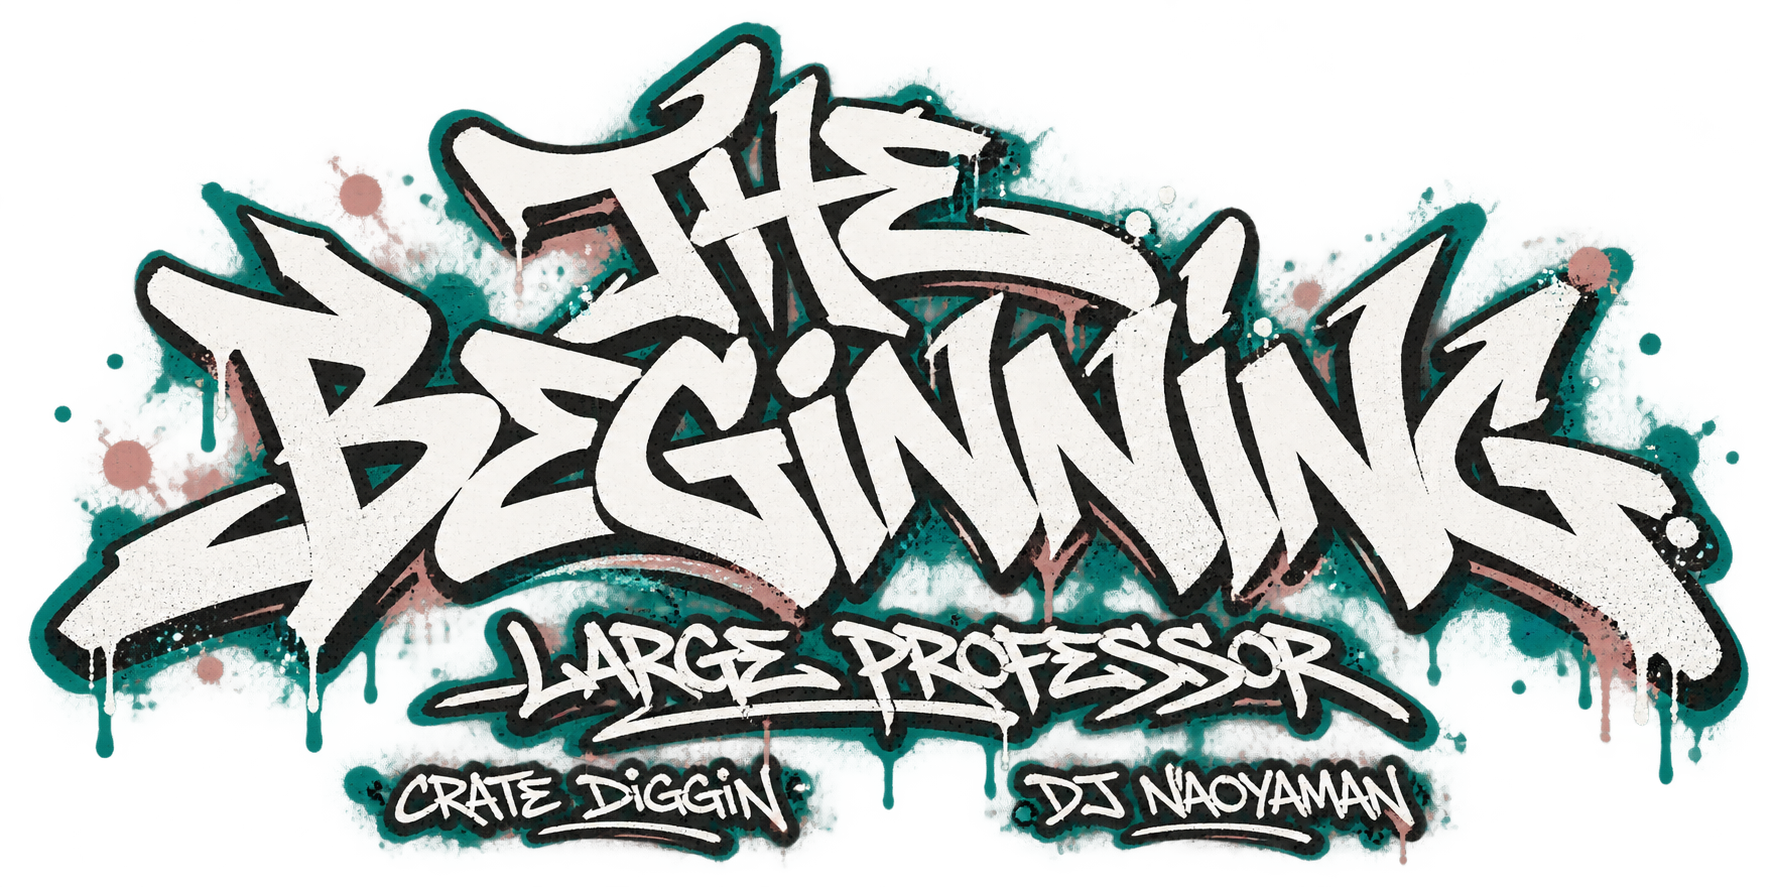
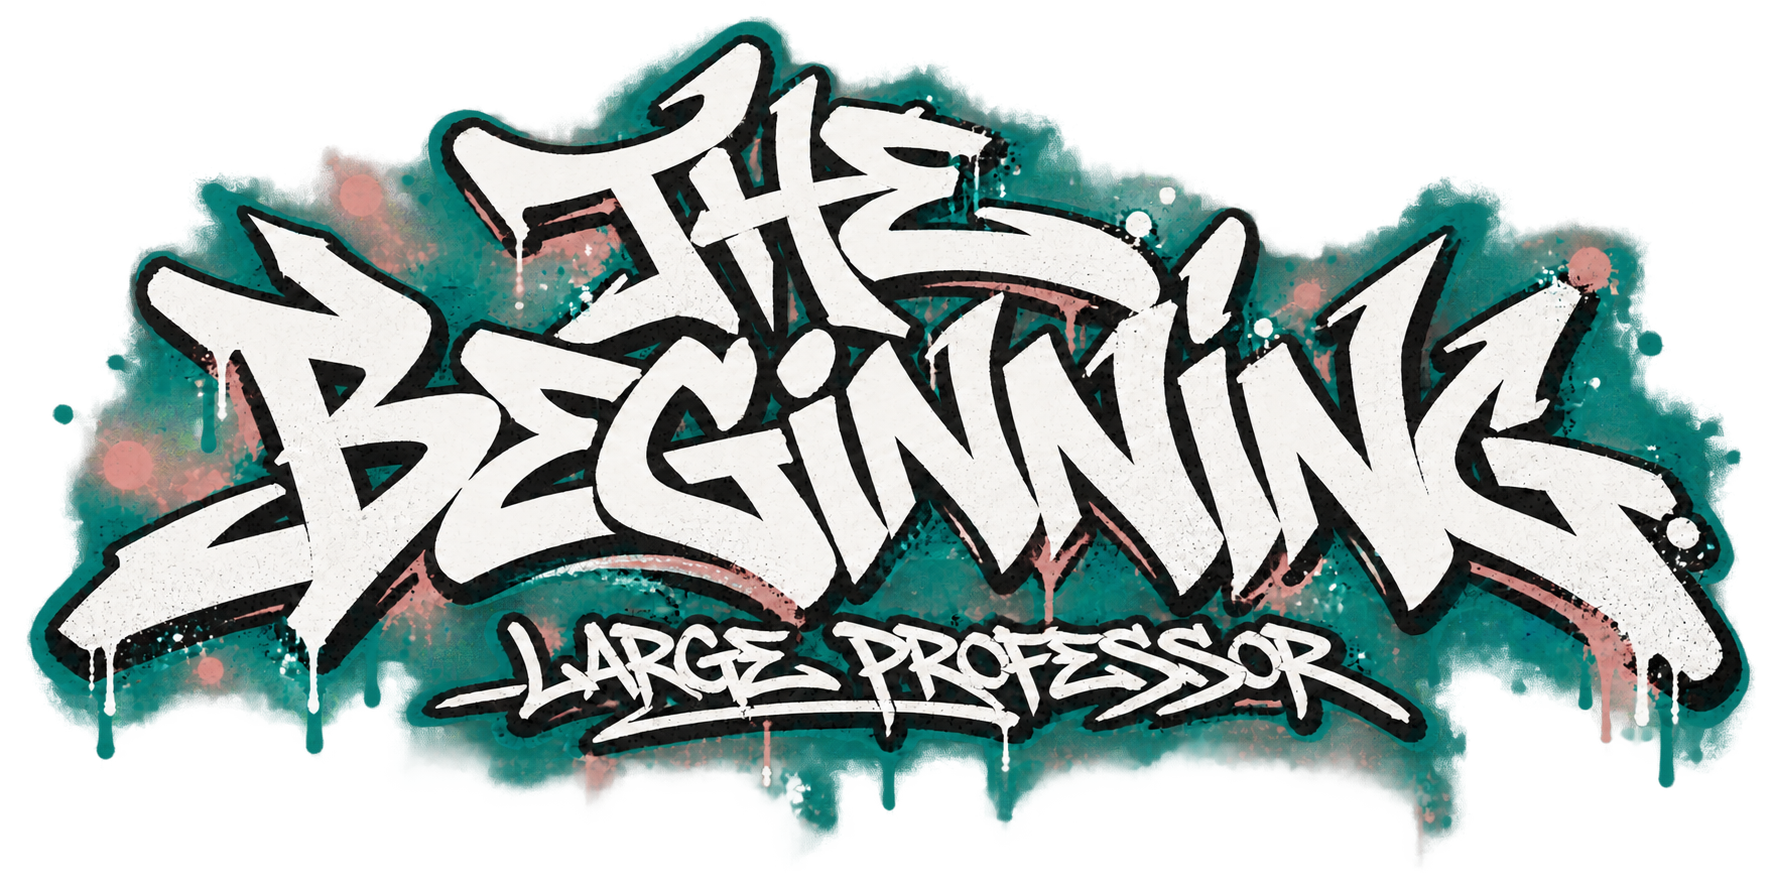
Remove embedded site signature from Large Professor The Beginning artwork

diff --git a/scripts/verify_large_professor_art_cleanup.py b/scripts/verify_large_professor_art_cleanup.py
@@ -1,0 +1,22 @@
+from pathlib import Path
+import hashlib,json,sys
+from PIL import Image
+from approved_large_professor_art_cleanup import F,historical_large_professor_art_cleanup_file
+R=Path(__file__).resolve().parents[1];sha=lambda b:hashlib.sha256(b).hexdigest()
+for p,h in F['protected'].items():assert sha((R/p).read_bytes())==h,p
+p=R/F['asset'];assert sha(p.read_bytes())==F['afterAssetSHA256'];assert F['beforeAssetSHA256']!=F['afterAssetSHA256']
+with Image.open(p) as im:
+ im.load();assert im.mode=='RGBA' and list(im.size)==F['dimensions'] and max(im.size)<=2400
+ assert sha(im.tobytes())==F['rgbaSHA256'];assert im.getchannel('A').getextrema()[0]==0
+ assert sum(1 for r,g,b,a in im.getdata() if min(r,g,b)>225 and a>240)>1000,'White paint lost'
+raw=(R/'releases.json').read_bytes();historical_large_professor_art_cleanup_file('releases.json',raw)
+try:historical_large_professor_art_cleanup_file('releases.json',raw+b' ')
+except AssertionError:pass
+else:raise AssertionError('Unapproved drift accepted')
+assert historical_large_professor_art_cleanup_file('unrelated',b'unchanged')==b'unchanged'
+notes=(R/'ARTWORK_NOTES.md').read_text();assert 'プロンプトに明示' in notes and 'ビットマップには' in notes
+if '--source-only' not in sys.argv:
+ D=R/'dist';html=(D/'tracks'/(F['id']+'.html')).read_text();assert F['asset'] in html and 'DJ Naoyaman' in html and 'Original graffiti' in html
+ with Image.open(D/F['asset']) as im:im.load();assert im.mode=='RGBA' and im.getchannel('A').getextrema()[0]==0
+ with Image.open(D/'og'/(F['id']+'.jpg')) as im:im.load();assert im.size==(1200,630)
+print('Large Professor image-only replacement, white paint/transparency, unchanged507 records and external credit PASS; lettering/removal visually reviewed')

diff --git a/scripts/approved_large_professor_art_cleanup.py b/scripts/approved_large_professor_art_cleanup.py
@@ -1,0 +1,10 @@
+"""Only the release version is normalized; approved image is checked separately."""
+from pathlib import Path
+import json,hashlib
+R=Path(__file__).resolve().parents[1]
+F=json.loads((R/'scripts/fixtures/approved-large-professor-art-cleanup.json').read_text())
+def historical_large_professor_art_cleanup_file(path,data):
+ if path!='releases.json':return data
+ assert hashlib.sha256(data).hexdigest()==F['afterReleaseSHA256'],'Unapproved artwork-release drift'
+ obj=json.loads(data);obj['version']=F['beforeVersion'];before=(json.dumps(obj,ensure_ascii=False,indent=2)+'\n').encode()
+ assert hashlib.sha256(before).hexdigest()==F['beforeReleaseSHA256'];return before

diff --git a/scripts/approved_masta_ace_art_cleanup.py b/scripts/approved_masta_ace_art_cleanup.py
@@ -4,6 +4,8 @@ import json,hashlib
 R=Path(__file__).resolve().parents[1]
 F=json.loads((R/'scripts/fixtures/approved-masta-ace-art-cleanup.json').read_text())
 def historical_masta_ace_art_cleanup_file(path,data):
+ from approved_large_professor_art_cleanup import historical_large_professor_art_cleanup_file
+ data=historical_large_professor_art_cleanup_file(path,data)
  if path!='releases.json':return data
  assert hashlib.sha256(data).hexdigest()==F['afterReleaseSHA256'],'Unapproved artwork-release drift'
  obj=json.loads(data);obj['version']=F['beforeVersion'];before=(json.dumps(obj,ensure_ascii=False,indent=2)+'\n').encode()
